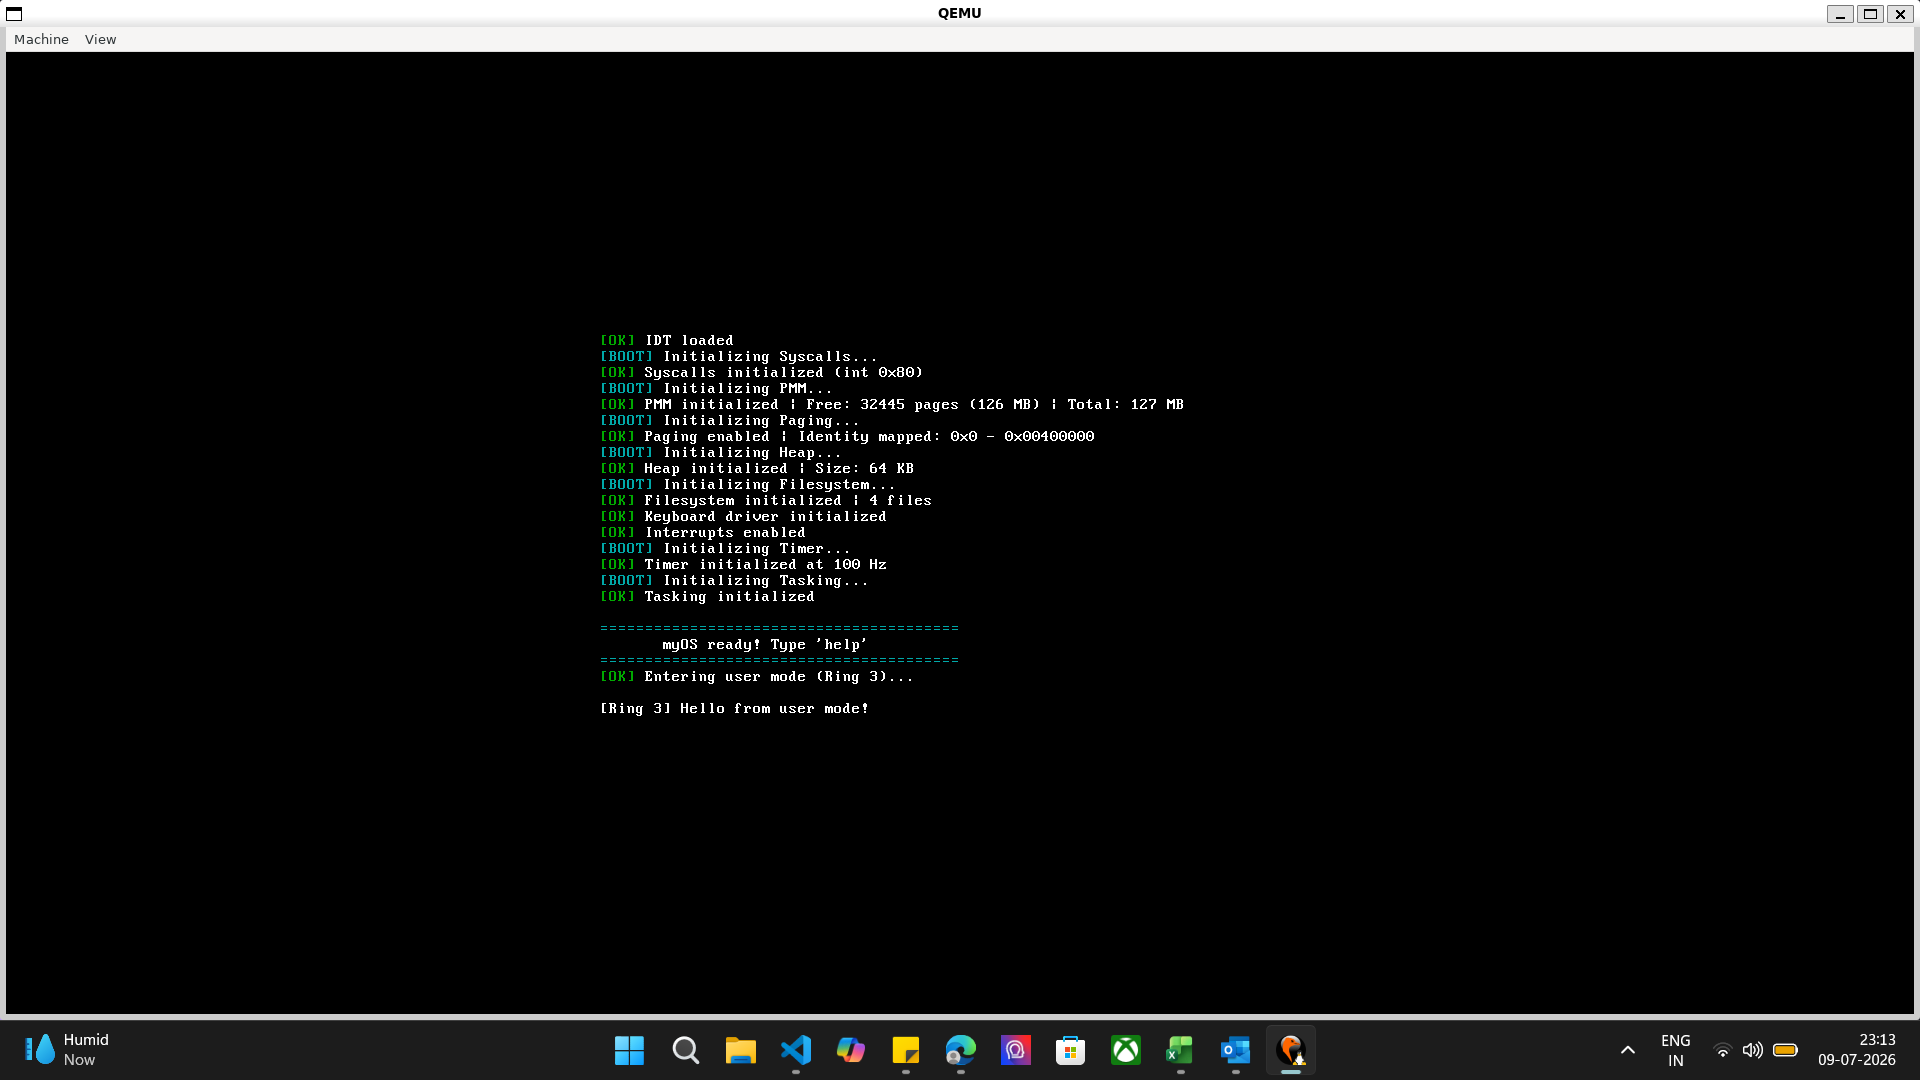
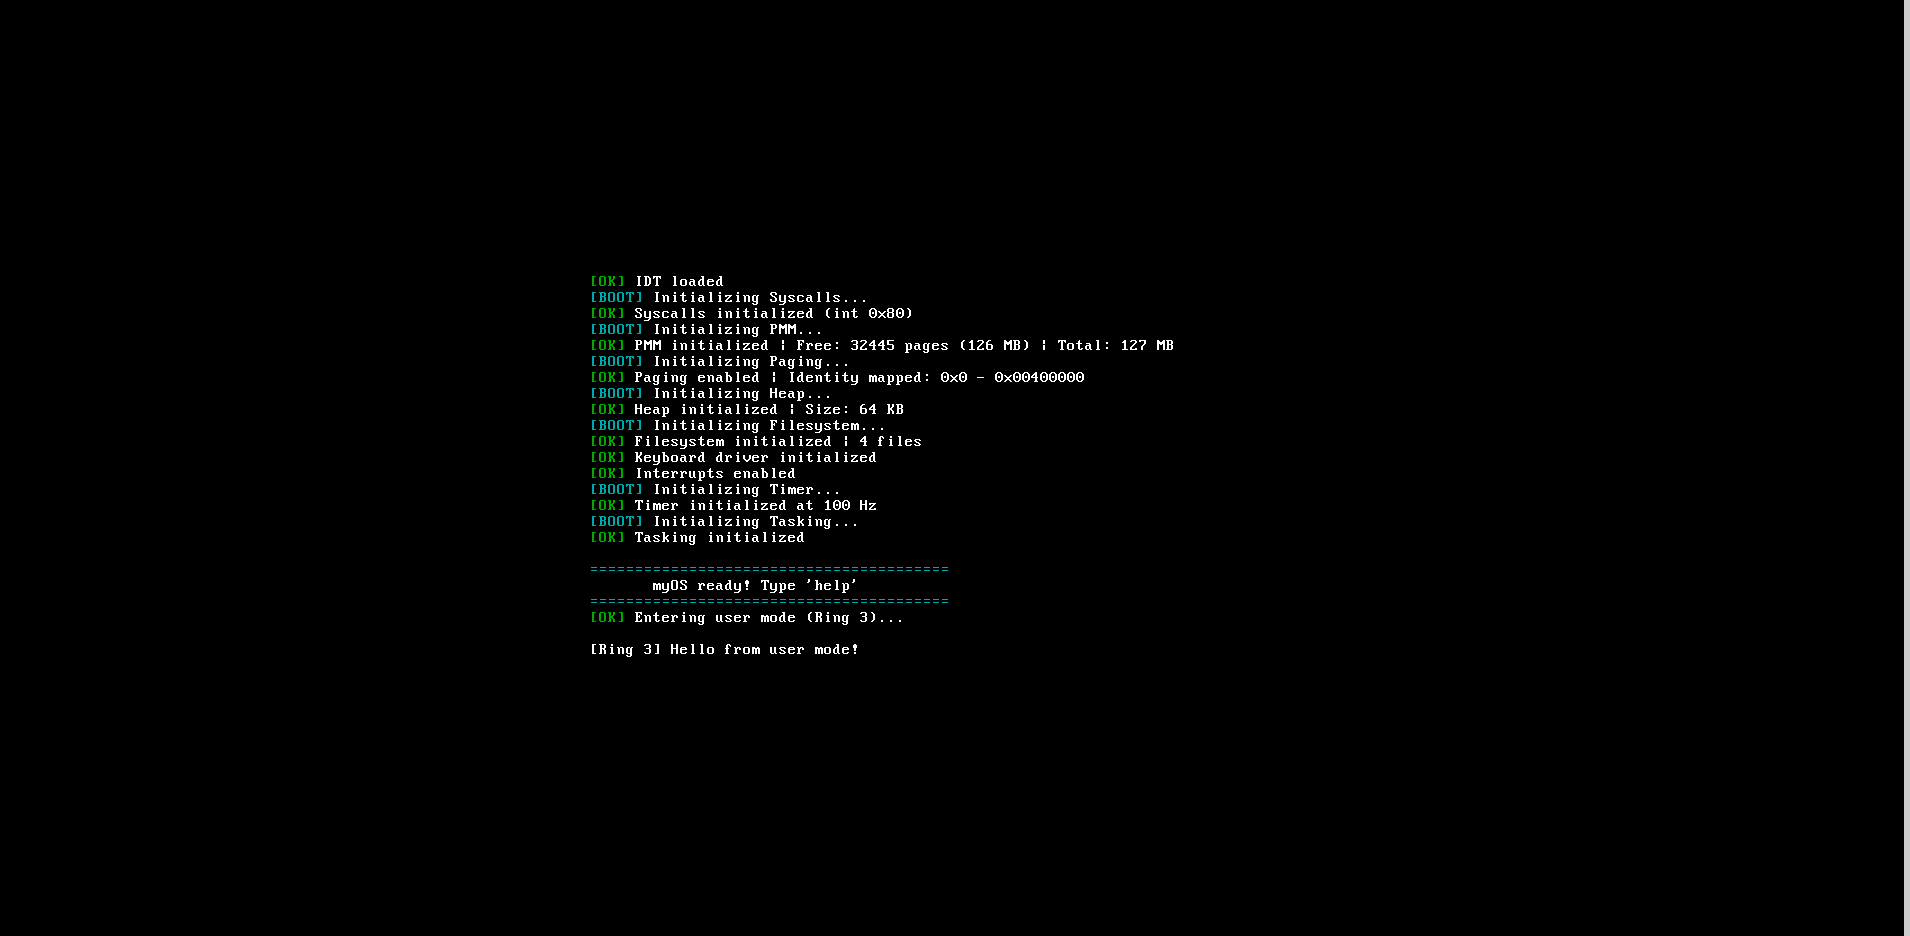
Update

Changed region(s): [[0.0, 0.0, 1.0, 1.0], [0.3089, 0.2788, 0.6178, 0.7126]]

diff --git a/README.md b/README.md
@@ -48,31 +48,49 @@ no libraries, no shortcuts.
 ---
 
 ## Architecture
+
+```text
 myOS/
 ├── boot/
-│   └── multiboot.asm       # GRUB multiboot entry point
+│   └── multiboot.asm            # GRUB multiboot entry point
+│
 ├── kernel/
-│   ├── kernel.c            # Kernel main, boot sequence
-│   ├── gdt.c / gdt.h       # Global Descriptor Table + TSS
-│   ├── gdt_flush.asm       # lgdt, lidt, ltr instructions
-│   ├── idt.c / idt.h       # Interrupt Descriptor Table
-│   ├── isr.c / isr.h       # ISR/IRQ handlers
-│   ├── isr.asm             # Assembly stubs for interrupts
-│   ├── pmm.c / pmm.h       # Physical Memory Manager
-│   ├── heap.c / heap.h     # Kernel heap allocator
-│   ├── paging.c / paging.h # Virtual memory + page tables
-│   ├── task.c / task.h     # Multitasking + scheduler
-│   ├── syscall.c / syscall.h # Syscall interface
-│   ├── usermode.c          # Ring 3 switch
-│   ├── usermode.asm        # iret-based privilege switch
-│   ├── shell.c / shell.h   # Interactive shell
-│   ├── fs.c / fs.h         # Ramdisk filesystem
-│   ├── elf.c / elf.h       # ELF binary loader
-│   └── linker.ld           # Kernel linker script
+│   ├── kernel.c                 # Kernel main, boot sequence
+│   ├── gdt.c
+│   ├── gdt.h                    # Global Descriptor Table + TSS
+│   ├── gdt_flush.asm            # lgdt, lidt, ltr instructions
+│   ├── idt.c
+│   ├── idt.h                    # Interrupt Descriptor Table
+│   ├── isr.c
+│   ├── isr.h                    # ISR/IRQ handlers
+│   ├── isr.asm                  # Assembly stubs for interrupts
+│   ├── pmm.c
+│   ├── pmm.h                    # Physical Memory Manager
+│   ├── heap.c
+│   ├── heap.h                   # Kernel heap allocator
+│   ├── paging.c
+│   ├── paging.h                 # Virtual memory + page tables
+│   ├── task.c
+│   ├── task.h                   # Multitasking + scheduler
+│   ├── syscall.c
+│   ├── syscall.h                # Syscall interface
+│   ├── usermode.c               # Ring 3 switch
+│   ├── usermode.asm             # iret-based privilege switch
+│   ├── shell.c
+│   ├── shell.h                  # Interactive shell
+│   ├── fs.c
+│   ├── fs.h                     # Ramdisk filesystem
+│   ├── elf.c
+│   ├── elf.h                    # ELF binary loader
+│   └── linker.ld                # Kernel linker script
+│
 └── drivers/
-├── vga.c / vga.h       # VGA text mode driver
-├── keyboard.c / keyboard.h # PS/2 keyboard driver
-└── timer.c / timer.h   # PIT timer driver
+    ├── vga.c
+    ├── vga.h                    # VGA text mode driver
+    ├── keyboard.c
+    ├── keyboard.h               # PS/2 keyboard driver
+    ├── timer.c
+    └── timer.h                  # PIT timer driver
 
 ---
 
@@ -87,7 +105,7 @@ sudo apt install build-essential nasm grub-pc-bin grub-common \
 
 ### Build
 ```bash
-git clone https://github.com/yourusername/myOS
+git clone https://github.com/gursneh-28/myOS.git
 cd myOS
 make
 ```